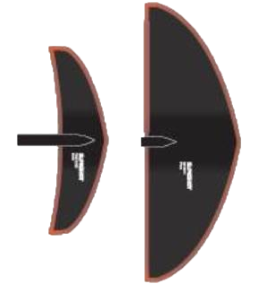
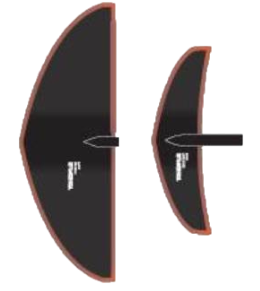
p

diff --git a/choosingafoil.html b/choosingafoil.html
@@ -45,41 +45,53 @@
         <p>From the previous page, you should now have a good idea of the properties a foil can have:</p>
         
             <h4>Size in cm2</h4>
+            <div class = "diagrams_noborder" style = "margin-left: 130px;">
+                <img src="foil_sizes.png" height="120px" width = "120px"/>
+              </div>
                 <div class="sections1">
-                <ul><b>Bigger</b>
-                    <li>Lower takeoff speed required</li>
-                    <li>Able to maintain lift at slower speeds</li>
-                    <li>Better for heavier riders</li>
-                    <li>Better for beginners</li>
-                </ul>
+                    <ul><b>Bigger</b>
+                        <li>Lower takeoff speed required</li>
+                        <li>Able to maintain lift at slower speeds</li>
+                        <li>Better for heavier riders</li>
+                        <li>Better for beginners</li>
+                    </ul>
                 <ul><b>Smaller</b>
                     <li>Faster top speeds, and more control at high speed</li>
                     <li>Better turning</li>
                 </ul>
+                
                 </div>
             
             <h4>Thickness</h4>
+            <div class = "diagrams_noborder" style = "margin-left: 70px;">
+                <img src="thickthin.png" height="120px" width = "240px"/>
+              </div>
                 <div class="sections1">
+                    <ul><b>Thinner</b>
+                        <li>Faster</li>
+                        <li>Slightly better glide</li>
+                    </ul>
                 <ul><b>Thicker</b>
                     <li>Able to maintain lift at slower speeds</li>
                     <li>Easier to control</li>
                 </ul>
-                <ul><b>Thinner</b>
-                    <li>Faster</li>
-                    <li>Slightly better glide</li>
-                </ul>
+                
                 </div>
             
             <h4>Aspect Ratio</h4>
+            <div class = "diagrams_noborder" style = "margin-left: 70px;">
+                <img src="aspect_ratio.png" height="120px" width = "240px"/>
+              </div>
                 <div class="sections1">
+                
+                <ul><b>Low Aspect</b>
+                    <li>Easier to control</li>
+                    <li>Better turning</li>
+                </ul>
                 <ul><b>High Aspect</b>
                     <li>More lift</li>
                     <li>Less drag</li>
                     <li>Better glide</li>
-                </ul>
-                <ul><b>Low Aspect</b>
-                    <li>Easier to control</li>
-                    <li>Better turning</li>
                 </ul>
                 </div>
             
